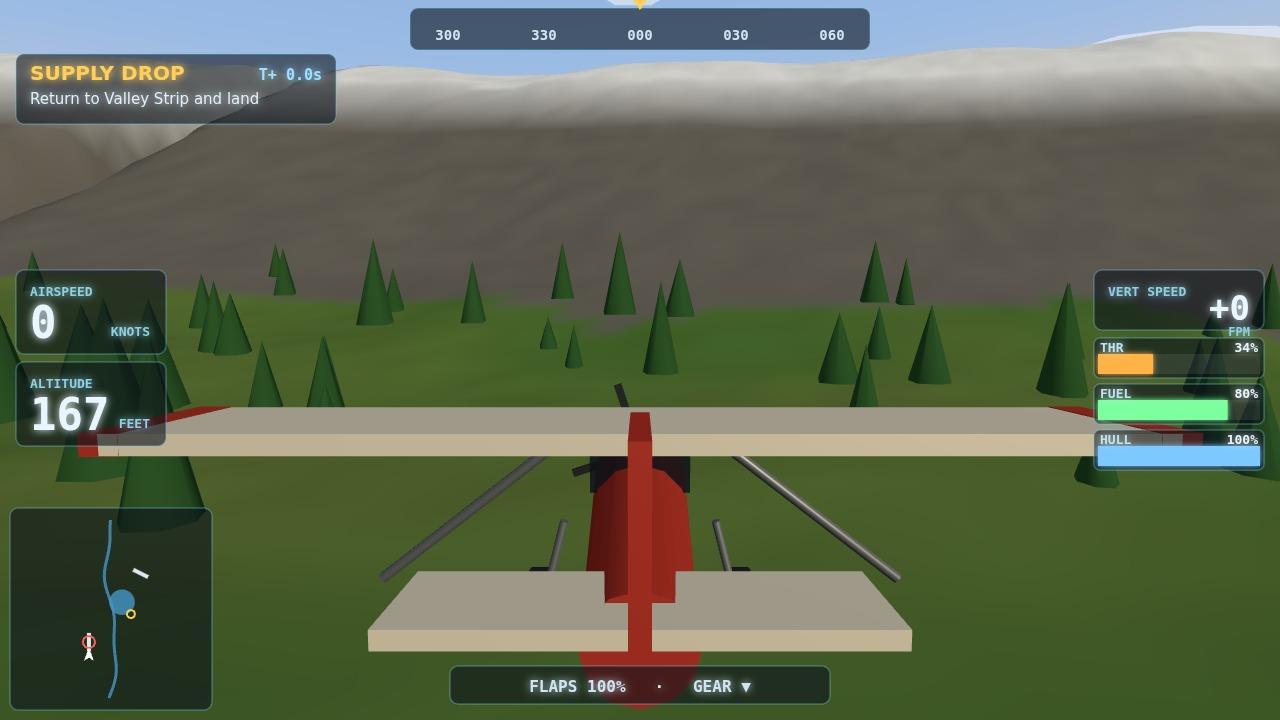
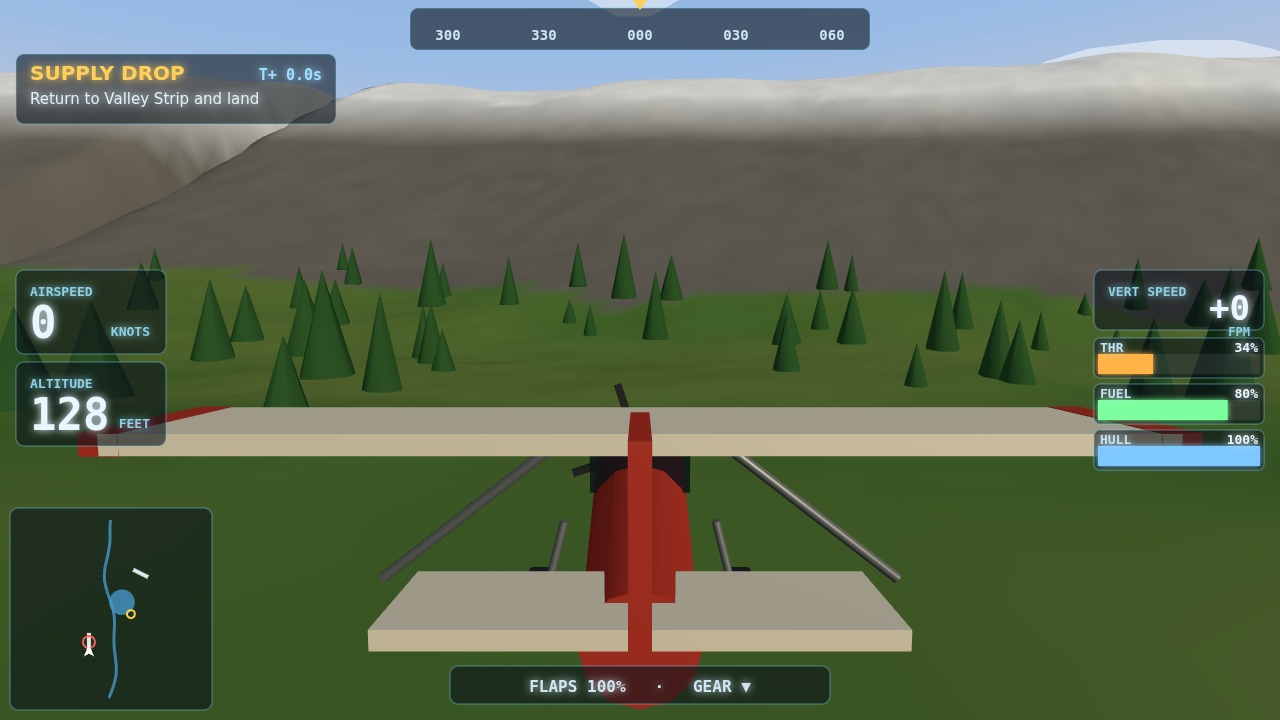
Polish shot framing: hide interior in cockpit, closer ring and approach

diff --git a/game/src/main.js b/game/src/main.js
@@ -355,6 +355,9 @@ function render() {
     camera.up.set(0, 1, 0);
     camera.lookAt(0, 120, 0);
   }
+  // In cockpit view the camera sits at the pilot's eye, so hide the exterior model to keep the
+  // forward view clean; the lit instrument panel is drawn by the HUD overlay instead.
+  aircraft.group.visible = cam.mode !== 'cockpit';
   renderer.render(scene, camera);
 
   hudCtx.setTransform(dpr, 0, 0, dpr, 0, 0);
@@ -506,7 +509,7 @@ function stageShot(name) {
     mission = createMission('rings', terrain);
     const r = terrain.rings[4];
     const dir = new THREE.Vector3(0, 0, 1);
-    const pos = r.pos.clone().addScaledVector(dir, -150);
+    const pos = r.pos.clone().addScaledVector(dir, -95);
     const q = new THREE.Quaternion().setFromAxisAngle(new THREE.Vector3(0, 1, 0), Math.PI);
     q.multiply(new THREE.Quaternion().setFromAxisAngle(new THREE.Vector3(0, 0, 1), -0.3));
     q.multiply(new THREE.Quaternion().setFromAxisAngle(new THREE.Vector3(1, 0, 0), 0.06));
@@ -520,9 +523,9 @@ function stageShot(name) {
     mission = createMission('supply', terrain);
     const r = WORLD.runways[0];
     const q = new THREE.Quaternion().setFromAxisAngle(new THREE.Vector3(0, 1, 0), Math.PI);
-    placeFlight({ x: r.x, y: r.y + 42, z: r.z + 300, throttle: 0.34, fuel: 0.8, flaps: 1 });
+    placeFlight({ x: r.x, y: r.y + 30, z: r.z + 200, throttle: 0.34, fuel: 0.8, flaps: 1 });
     flight.state.quat.copy(q);
-    flight.state.vel.set(0, -1.4, -38).applyQuaternion(q);
+    flight.state.vel.set(0, -1.2, -36).applyQuaternion(q);
     mission.phase = 2;
     mission.goal = 'Return to Valley Strip and land';
   } else if (name === 'cockpit') {

diff --git a/game/src/camera.js b/game/src/camera.js
@@ -48,8 +48,8 @@ export function createCamera(camera) {
       camera.up.copy(UP);
       camera.lookAt(look);
     } else {
-      // Cockpit: at the pilot's eye, looking forward along the nose.
-      offset.set(0, 1.05, -0.9).applyQuaternion(q);
+      // Cockpit: at the pilot's eye, looking forward over the nose.
+      offset.set(0, 1.2, -2.6).applyQuaternion(q);
       camera.position.copy(st.pos).add(offset);
       cockpitQ.setFromEuler(new THREE.Euler(-0.04, 0, 0));
       camera.quaternion.copy(q).multiply(cockpitQ);
